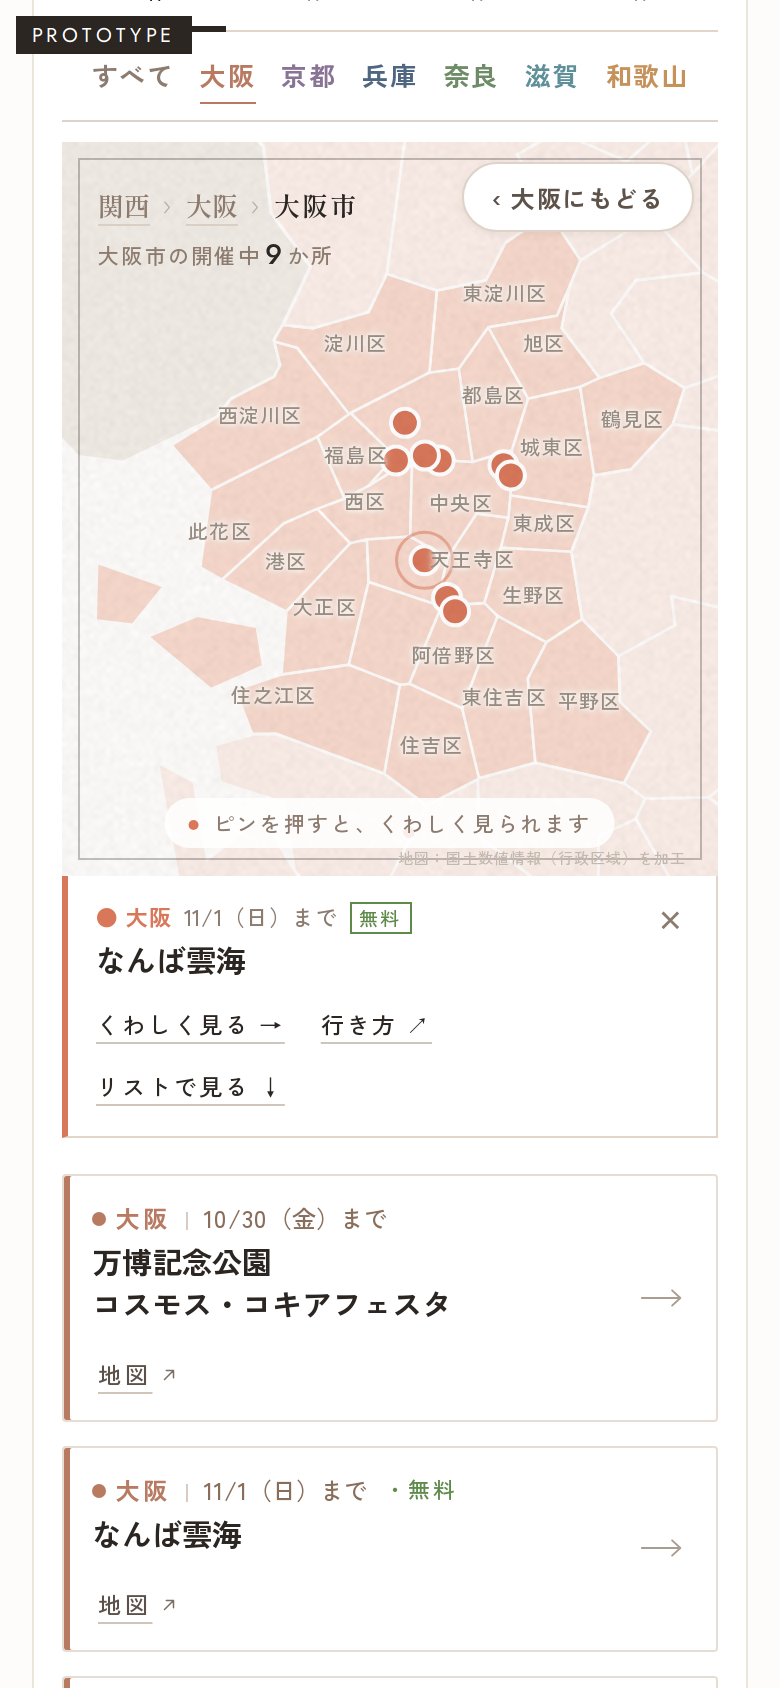
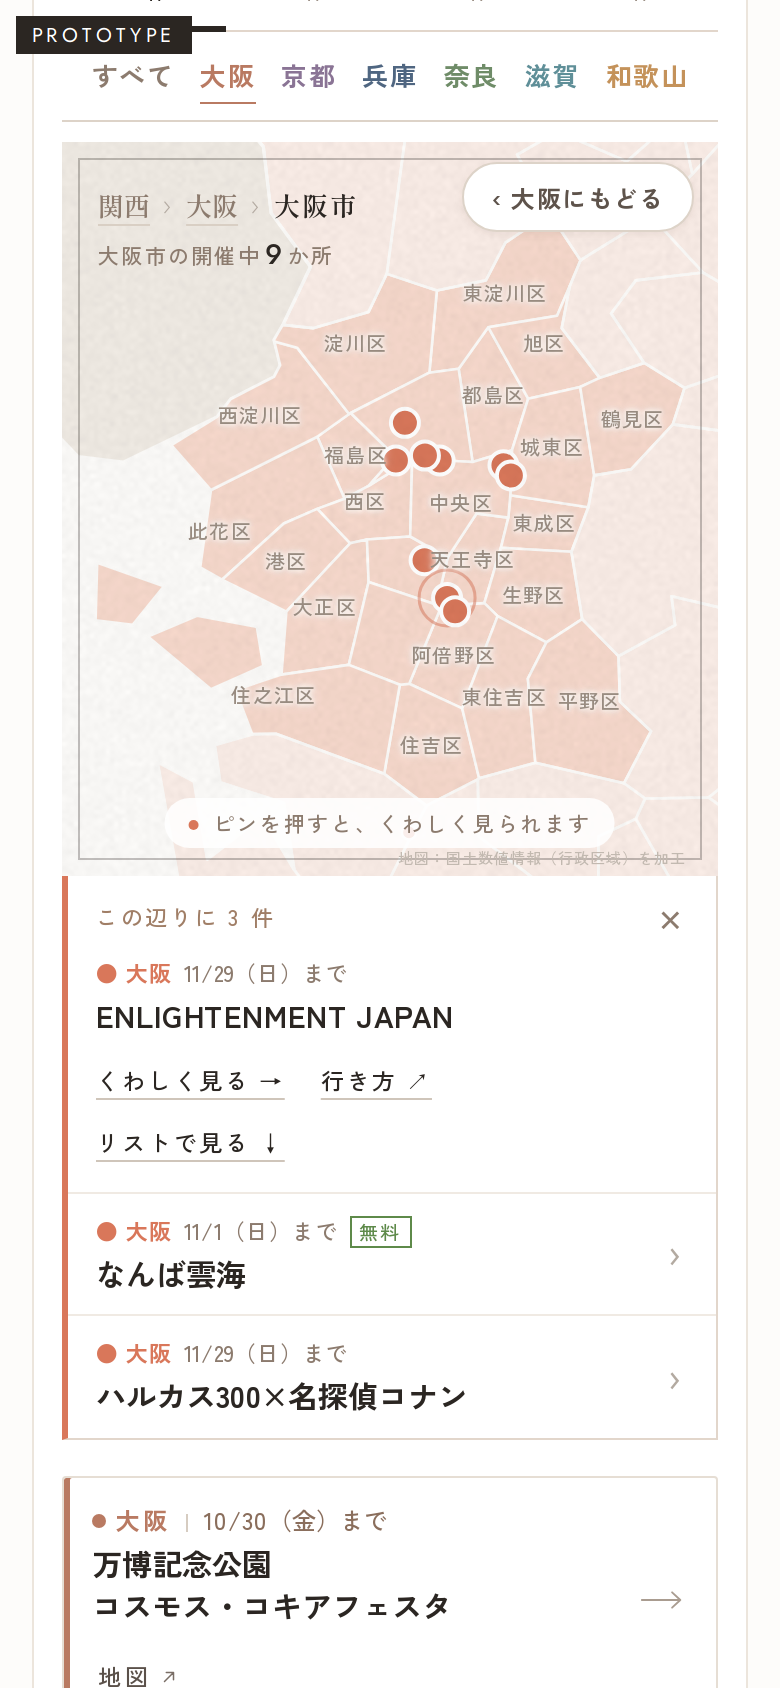
TOWN NOTES 試作：なぞって地図を動かせるように (#175)
* TOWN NOTES（仮）: おでかけ先の場所を緯度経度にする仕組み

Claude-Session: https://claude.ai/code/session_012U6So1FwuhCU8YQS91whDj

* TOWN NOTES（仮）: 地図とピンの仮ページ（links/townnotes/）

Claude-Session: https://claude.ai/code/session_012U6So1FwuhCU8YQS91whDj

* townnotes: geo.json

* TOWN NOTES（仮）: 今のおでかけリストに地図とピンを組み込んだ試作

Claude-Session: https://claude.ai/code/session_012U6So1FwuhCU8YQS91whDj

* 古い試作テンプレートを消す

Claude-Session: https://claude.ai/code/session_012U6So1FwuhCU8YQS91whDj

* townnotes: geo.json

* TOWN NOTES（仮）: もうすぐのピンを点線の輪に

Claude-Session: https://claude.ai/code/session_012U6So1FwuhCU8YQS91whDj

* TOWN NOTES（仮）: 地図を指で拡大できる明るい地図に（区名・駅名つき）

Claude-Session: https://claude.ai/code/session_012U6So1FwuhCU8YQS91whDj

* townnotes: shots

* TOWN NOTES（仮）: 府県名・まとまりの丸・出典の表示を直す

Claude-Session: https://claude.ai/code/session_012U6So1FwuhCU8YQS91whDj

* townnotes: shots

* TOWN NOTES（仮）: イラストの地図に戻す（府県・市区町村の形だけ、明るい色、指で拡大）

Claude-Session: https://claude.ai/code/session_012U6So1FwuhCU8YQS91whDj

* townnotes: shots

* TOWN NOTES（仮）: 府県を選んだとき、ほかの府県は薄いベージュに

Claude-Session: https://claude.ai/code/session_012U6So1FwuhCU8YQS91whDj

* townnotes: shots

* TOWN NOTES 試作 v5: 押すだけで 関西→府県→市・区 と寄る地図（指2本なし）

Claude-Session: https://claude.ai/code/session_012U6So1FwuhCU8YQS91whDj

* townnotes: shots

* TOWN NOTES 試作: 府県ボタンと件数を地図のすぐ上へ

Claude-Session: https://claude.ai/code/session_012U6So1FwuhCU8YQS91whDj

* townnotes: shots

* TOWN NOTES 試作: 件数の行は上に戻し、府県ボタンだけ地図の上へ
[…]

diff --git a/links/townnotes/map.js b/links/townnotes/map.js
@@ -119,6 +119,16 @@ function aspect(){var r=$(".fr",box).getBoundingClientRect();return r.width?r.he
 function fit(b,pad){var w=b[2]-b[0],h=b[3]-b[1],A=aspect();pad=pad||.12;var W=w*(1+pad*2),H=h*(1+pad*2)+h*.16;if(H/W>A)W=H/A;else H=W*A;var cx=(b[0]+b[2])/2,cy=(b[1]+b[3])/2;return [cx-W/2,cy-H/2,W,H]}
 function fly(to){var from=vb.slice(),t0=performance.now(),D=RM?1:650;cancelAnimationFrame(anim);
  (function f(n){var k=Math.min(1,(n-t0)/D),e=1-Math.pow(1-k,3);vb=from.map(function(v,i){return v+(to[i]-v)*e});apply();if(k<1)anim=requestAnimationFrame(f)})(t0)}
+// ---- 指1本でなぞって動かす（府県・市に寄っているときだけ。関西全体ではページのスクロールを優先） ----
+var drag=null,moved=false;
+function panBox(){return level()===3?state.muni.bb:level()===2?PF[state.pref].bb:null}
+function clampVb(v){var b=panBox();if(!b)return v;var cx=v[0]+v[2]/2,cy=v[1]+v[3]/2;var w=(b[2]-b[0])*.3,h=(b[3]-b[1])*.3;cx=Math.max(b[0]+w,Math.min(b[2]-w,cx));cy=Math.max(b[1]+h,Math.min(b[3]-h,cy));return [cx-v[2]/2,cy-v[3]/2,v[2],v[3]]}
+var FR=$(".fr",box);FR.addEventListener("pointerdown",function(e){if(level()===1||e.target.closest("button"))return;cancelAnimationFrame(anim);drag={x:e.clientX,y:e.clientY,v:vb.slice(),id:e.pointerId};moved=false});
+FR.addEventListener("pointermove",function(e){if(!drag||e.pointerId!==drag.id)return;var dx=e.clientX-drag.x,dy=e.clientY-drag.y;if(!moved&&Math.hypot(dx,dy)<6)return;if(!moved){moved=true;try{FR.setPointerCapture(drag.id)}catch(_){}}var u=drag.v[2]/(svg.getBoundingClientRect().width||360);vb=clampVb([drag.v[0]-dx*u,drag.v[1]-dy*u,drag.v[2],drag.v[3]]);apply()});
+function endDrag(){drag=null;setTimeout(function(){moved=false},0)}
+FR.addEventListener("pointerup",endDrag);FR.addEventListener("pointercancel",endDrag);
+// なぞった後の「押した」は無視（押し間違い防止）
+FR.addEventListener("click",function(e){if(moved){e.stopPropagation();e.preventDefault()}},true);
 function px(){var r=svg.getBoundingClientRect();return vb[2]/(r.width||360)}  // 画面の1pxが地図の何単位か
 function apply(){svg.setAttribute("viewBox",vb.join(" "));var u=px(),lv=level();
  PREFS.forEach(function(p){PF[p].path.setAttribute("stroke-width",(lv===1?2.4:1.6)*u)});
@@ -170,7 +180,8 @@ function render(){var lv=level(),pf=state.pref,m=state.muni,pins=list.filter(fun
  if(lv===1)cur("関西");else{cb("関西",function(){pickPref("")});sep();if(lv===2)cur(pf);else{cb(pf,function(){goPref()});sep();cur(m.n)}}
  var ce=$(".cen",box);ce.textContent=pf?EN[pf]:"KANSAI";ce.style.color=pf?PC[pf]:"";ce.style.display=lv===1?"":"none";
  var bk=$(".bk",box);bk.style.display=lv===1?"none":"block";bk.textContent=lv===3?"‹ "+pf+"にもどる":"‹ 関西にもどる";bk.onclick=function(){if(level()===3)goPref();else pickPref("")};
- $(".hint",box).textContent=lv===1?"色のついた府県を押すと、近づきます":lv===2?"色のついた所を押すと、もっと近づきます":"ピンを押すと、くわしく見られます";
+ var fr0=$(".fr",box);fr0.style.touchAction=lv===1?"auto":"none";svg.style.cursor=lv===1?"":"grab";
+ $(".hint",box).textContent=lv===1?"色のついた府県を押すと、近づきます":lv===2?"色のついた所を押すと、近づきます":"なぞって動かせます・ピンを押すと、くわしく";
  $("#tnn",box).innerHTML=(lv===3?m.n:pf||"関西")+"の"+curTab()+"<b>"+(lv===3?(cnt[m.id]||0):pins.filter(function(i){return !pf||i.pref===pf}).length)+"</b>か所";
  apply();}
 

diff --git a/tools/townnotes/map.src.js b/tools/townnotes/map.src.js
@@ -119,6 +119,16 @@ function aspect(){var r=$(".fr",box).getBoundingClientRect();return r.width?r.he
 function fit(b,pad){var w=b[2]-b[0],h=b[3]-b[1],A=aspect();pad=pad||.12;var W=w*(1+pad*2),H=h*(1+pad*2)+h*.16;if(H/W>A)W=H/A;else H=W*A;var cx=(b[0]+b[2])/2,cy=(b[1]+b[3])/2;return [cx-W/2,cy-H/2,W,H]}
 function fly(to){var from=vb.slice(),t0=performance.now(),D=RM?1:650;cancelAnimationFrame(anim);
  (function f(n){var k=Math.min(1,(n-t0)/D),e=1-Math.pow(1-k,3);vb=from.map(function(v,i){return v+(to[i]-v)*e});apply();if(k<1)anim=requestAnimationFrame(f)})(t0)}
+// ---- 指1本でなぞって動かす（府県・市に寄っているときだけ。関西全体ではページのスクロールを優先） ----
+var drag=null,moved=false;
+function panBox(){return level()===3?state.muni.bb:level()===2?PF[state.pref].bb:null}
+function clampVb(v){var b=panBox();if(!b)return v;var cx=v[0]+v[2]/2,cy=v[1]+v[3]/2;var w=(b[2]-b[0])*.3,h=(b[3]-b[1])*.3;cx=Math.max(b[0]+w,Math.min(b[2]-w,cx));cy=Math.max(b[1]+h,Math.min(b[3]-h,cy));return [cx-v[2]/2,cy-v[3]/2,v[2],v[3]]}
+var FR=$(".fr",box);FR.addEventListener("pointerdown",function(e){if(level()===1||e.target.closest("button"))return;cancelAnimationFrame(anim);drag={x:e.clientX,y:e.clientY,v:vb.slice(),id:e.pointerId};moved=false});
+FR.addEventListener("pointermove",function(e){if(!drag||e.pointerId!==drag.id)return;var dx=e.clientX-drag.x,dy=e.clientY-drag.y;if(!moved&&Math.hypot(dx,dy)<6)return;if(!moved){moved=true;try{FR.setPointerCapture(drag.id)}catch(_){}}var u=drag.v[2]/(svg.getBoundingClientRect().width||360);vb=clampVb([drag.v[0]-dx*u,drag.v[1]-dy*u,drag.v[2],drag.v[3]]);apply()});
+function endDrag(){drag=null;setTimeout(function(){moved=false},0)}
+FR.addEventListener("pointerup",endDrag);FR.addEventListener("pointercancel",endDrag);
+// なぞった後の「押した」は無視（押し間違い防止）
+FR.addEventListener("click",function(e){if(moved){e.stopPropagation();e.preventDefault()}},true);
 function px(){var r=svg.getBoundingClientRect();return vb[2]/(r.width||360)}  // 画面の1pxが地図の何単位か
 function apply(){svg.setAttribute("viewBox",vb.join(" "));var u=px(),lv=level();
  PREFS.forEach(function(p){PF[p].path.setAttribute("stroke-width",(lv===1?2.4:1.6)*u)});
@@ -170,7 +180,8 @@ function render(){var lv=level(),pf=state.pref,m=state.muni,pins=list.filter(fun
  if(lv===1)cur("関西");else{cb("関西",function(){pickPref("")});sep();if(lv===2)cur(pf);else{cb(pf,function(){goPref()});sep();cur(m.n)}}
  var ce=$(".cen",box);ce.textContent=pf?EN[pf]:"KANSAI";ce.style.color=pf?PC[pf]:"";ce.style.display=lv===1?"":"none";
  var bk=$(".bk",box);bk.style.display=lv===1?"none":"block";bk.textContent=lv===3?"‹ "+pf+"にもどる":"‹ 関西にもどる";bk.onclick=function(){if(level()===3)goPref();else pickPref("")};
- $(".hint",box).textContent=lv===1?"色のついた府県を押すと、近づきます":lv===2?"色のついた所を押すと、もっと近づきます":"ピンを押すと、くわしく見られます";
+ var fr0=$(".fr",box);fr0.style.touchAction=lv===1?"auto":"none";svg.style.cursor=lv===1?"":"grab";
+ $(".hint",box).textContent=lv===1?"色のついた府県を押すと、近づきます":lv===2?"色のついた所を押すと、近づきます":"なぞって動かせます・ピンを押すと、くわしく";
  $("#tnn",box).innerHTML=(lv===3?m.n:pf||"関西")+"の"+curTab()+"<b>"+(lv===3?(cnt[m.id]||0):pins.filter(function(i){return !pf||i.pref===pf}).length)+"</b>か所";
  apply();}
 
